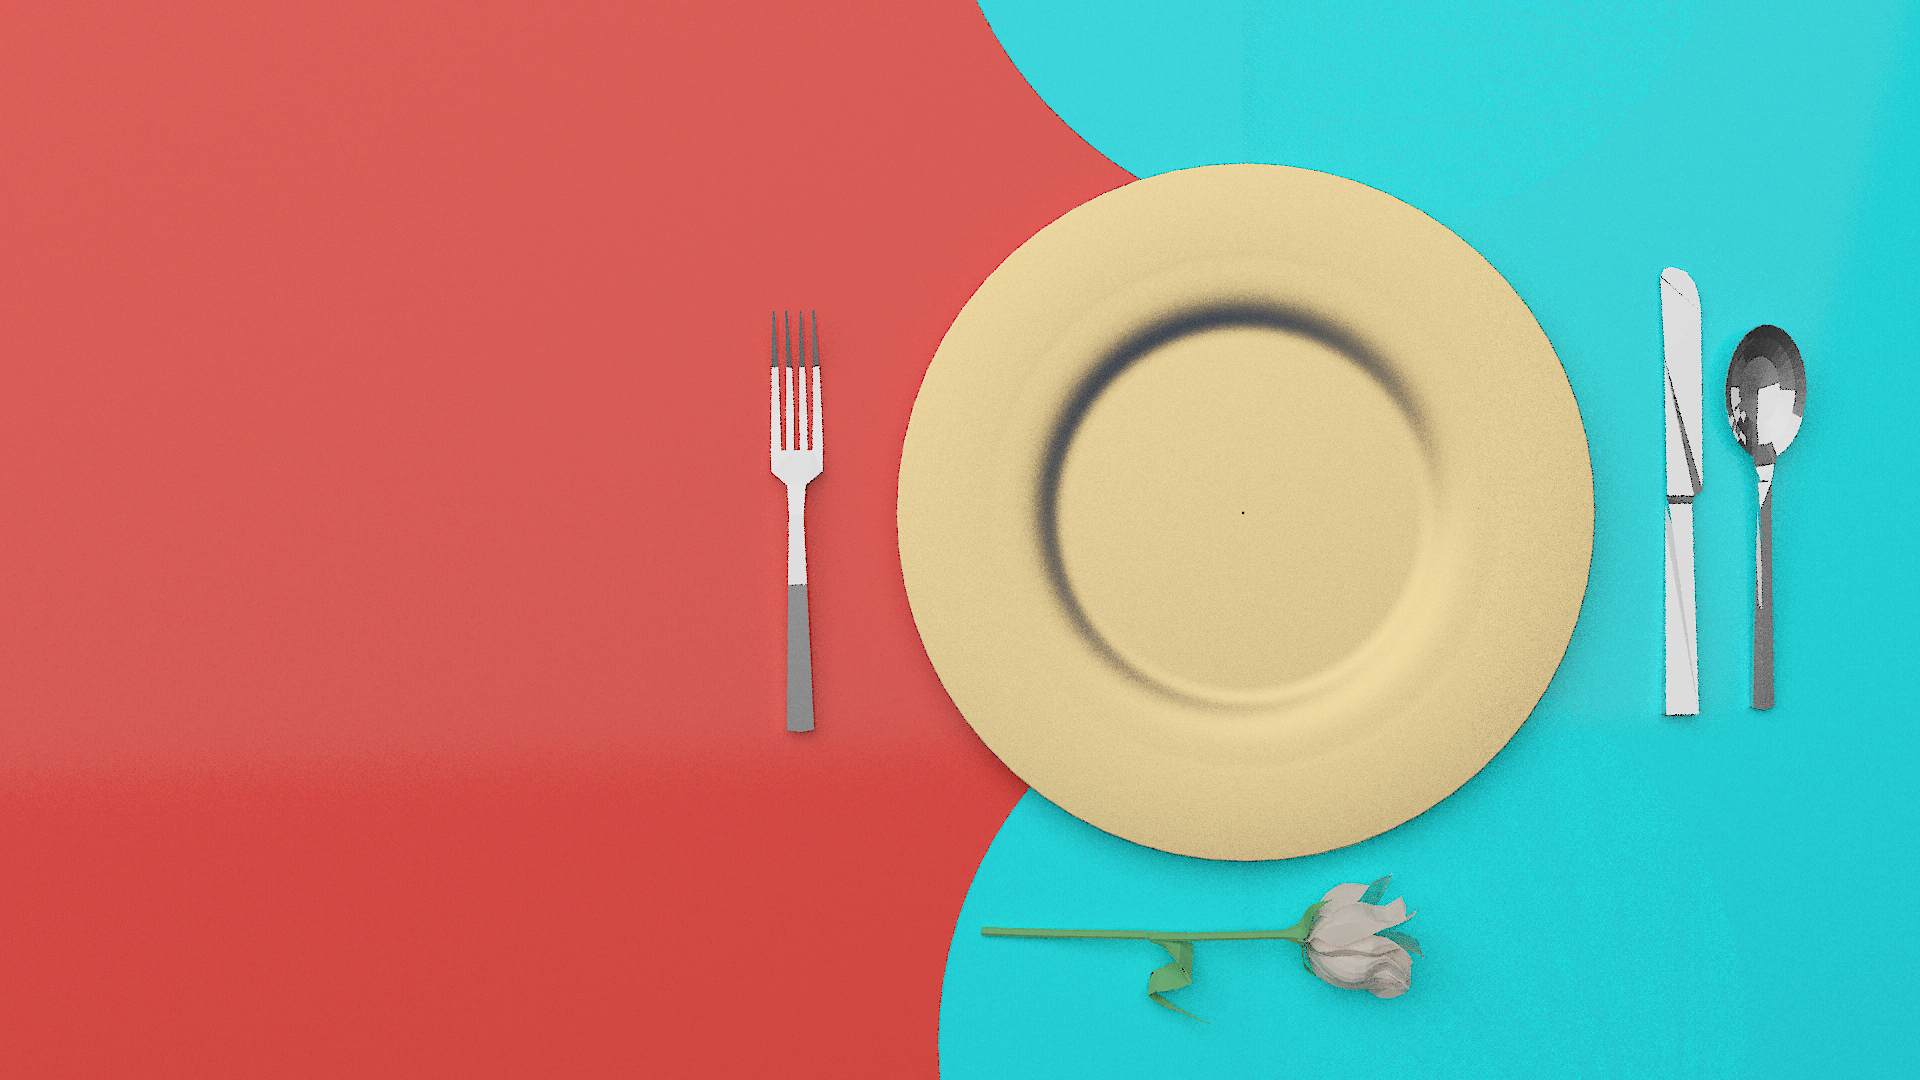
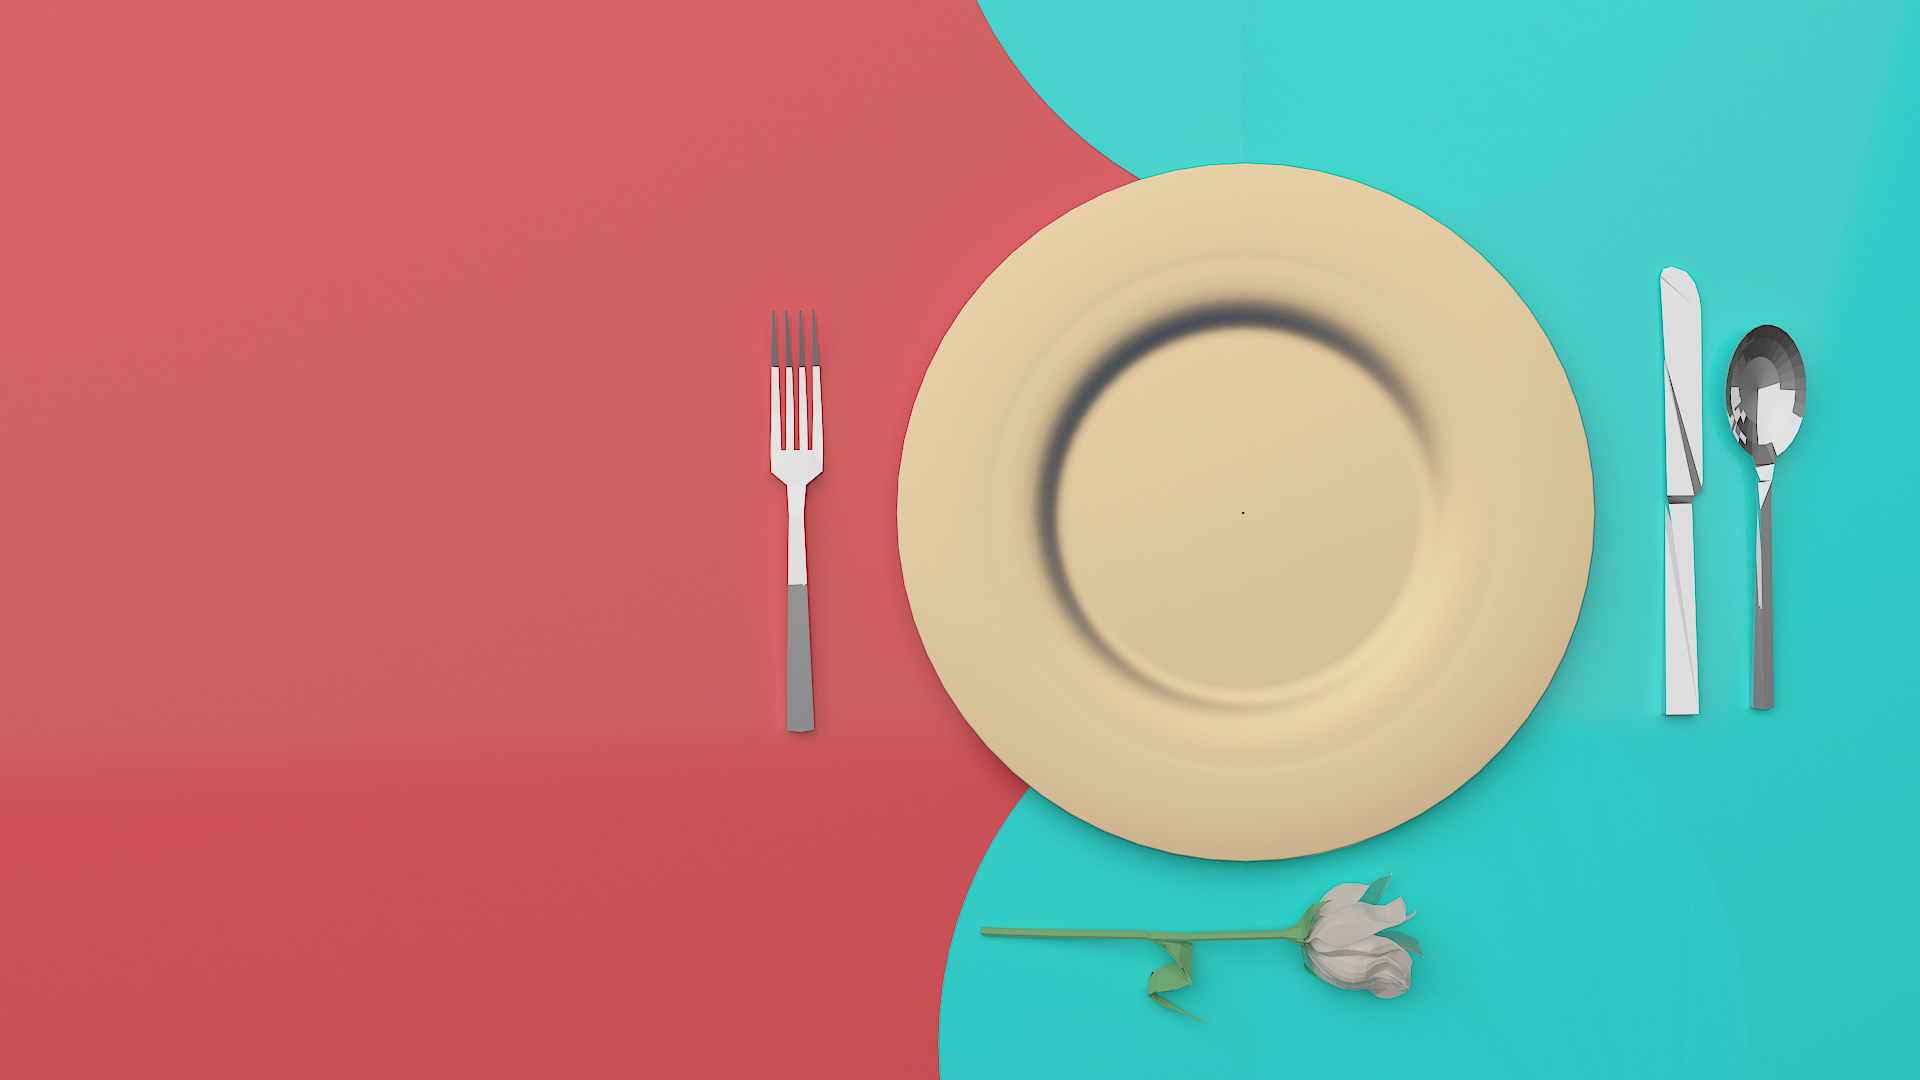
Fourth profile

diff --git a/frontend/src/containers/pages/Profile/Profile.css b/frontend/src/containers/pages/Profile/Profile.css
@@ -7,15 +7,25 @@
     background-color: aqua;
 }
 
+.outerCircle {
+    position: absolute;
+    width: 2216px;
+    height: 2116px;
+    left: -1250px;
+    top: -1350px;
+    border-radius: 50%;
+    background-color: #D85D55;
+}
+
 .outerPlate { 
     display: flex;
     justify-content: center;
     align-items: center;
     position: absolute;
-    width: 700px;
-    height: 700px;
-    right: -80px;
-    top: -370px;
+    width: 400px;
+    height: 400px;
+    right: -55px;
+    top: -200px;
     border-radius: 50%;
     background-color: #DFCA95;
     box-shadow: 25px 25px 15px  rgba(54, 53, 45, 0.2);
@@ -26,8 +36,8 @@
     justify-content: center;
     align-items: center;
     /* position: absolute; */
-    width: 426px;
-    height: 426px;
+    width: 266px;
+    height: 266px;
     /* left: 828px;
     top: -243px; */
     border-radius: 50%;

diff --git a/frontend/src/containers/pages/Profile/Profile.js b/frontend/src/containers/pages/Profile/Profile.js
@@ -4,6 +4,7 @@ import './Profile.css'
 function Profile() {
     return (
         <div class="outerFrame">
+            <div class="outerCircle"></div>
             <div className="outerPlate">
                 <div className="innerPlate"></div>
             </div>

diff --git a/frontend/src/containers/pages/Home/Home.css b/frontend/src/containers/pages/Home/Home.css
@@ -1,6 +1,6 @@
 
 .bg { 
-    background-image: url(../../uploadfile/chanthong\ template5.jpg);
+    background-image: url(../../uploadfile/chanthong.jpg);
     height: 100vh;
     background-size:cover;
     margin: 0;
